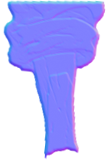
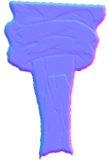
NE-90：阿婆的頸與手腕支點移到零件上，補回沒有零件認領的像素，凜遠側袖子的檢查對回實際相鄰的零件

diff --git a/tools/comfyui/refine_parts.py b/tools/comfyui/refine_parts.py
@@ -8,6 +8,8 @@ Outputs: <work>/07_refined/<part>.png   same size and pixel coordinates as the i
 spec["refine"] (every key is optional):
   far_side   {"parts": [...], "min_area": N, "y_min": Y}        remove the far-side leg / boot that Qwen drew as a flat teal silhouette behind the near leg
   erase      [{"part": p, "poly": [[x, y], ...]}]    clear a polygon (pixel coordinates of base_rgba.png)
+  claim      [{"part": p, "poly": [[x, y], ...]}]    give the part the pixels of base_rgba.png inside the polygon that no part holds: skin
+                                                      between two masks (the front of the neck between the chin and the collar) shows the background
   inpaint    [{"part": p, "poly": [[x, y], ...]}]    repaint a polygon of the part from the colours around it, alpha unchanged: something
                                                       that belongs to another part was painted onto this one (an earring on the neck under the head)
   underlap   [{"part": p, "under": q, "poly": [[x, y], ...], "inset": 2}]  grow part p into the polygon, only where part q covers it (q's
@@ -149,6 +151,16 @@ def main() -> None:
         cv2.fillPoly(m, [np.array(e["poly"], np.int32)], 1)
         layers[e["part"]][:, :, 3][m > 0] = 0
         print(f"  erase {e['part']}: {int(m.sum())} px")
+
+    for e in cfg.get("claim", []):
+        m = np.zeros((H, W), np.uint8)
+        cv2.fillPoly(m, [np.array(e["poly"], np.int32)], 1)
+        owned = np.zeros((H, W), bool)
+        for other in layers.values():
+            owned |= other[:, :, 3] > 127
+        take = (m > 0) & (base[:, :, 3] > 127) & ~owned
+        layers[e["part"]][take] = base[take]
+        print(f"  claim {e['part']}: +{int(take.sum())} px")
 
     for e in cfg.get("inpaint", []):
         m = np.zeros((H, W), np.uint8)

diff --git a/pm/Nest-Egg/attachments/NE-255-lessons.md b/pm/Nest-Egg/attachments/NE-255-lessons.md
@@ -186,3 +186,10 @@
 - **對照用的舊版本開在另一個工作目錄**，不要在正在用的目錄裡換檔案；量完就移除。
 - **裝甲脫落的預覽倍率要依體型調**：高大的敵人用預設倍率會超出畫面，頭被切掉就等於沒看。
 
+## 接點數字很大時先分清楚是哪一種（NE-90，2026-10-11 第二次）
+
+- **支點落在別的衣物上**：接點檢查只畫相鄰的兩個零件。支點如果落在圍裙肩帶、背帶這類第三個零件上，檢查會整段判「中心沒蓋到」。把支點移到兩個零件本身蓋得到的地方（量那一列的遮罩範圍，取中間）。
+- **原圖有、但沒有零件認領的像素**：兩個遮罩之間的皮膚（下巴與衣領之間）誰都沒拿，遊戲裡直接透出背景。精修步驟 `claim` 把多邊形內沒有人認領的原圖像素補給指定零件。頭部有眨眼圖鎖定雜湊的角色，補給軀幹，不要動頭。
+- **零件的掛點移動之後，檢查要畫的相鄰零件也要跟著改**：這是把檢查對回實際的組合方式，不是放寬；判定標準不動，並在票上寫明改了哪一個接點、為什麼。
+- **重建舊角色會順便重切頭像**：支點移動後頭像的取景會跟著移幾個像素，提交前看一眼。
+

diff --git a/.agents/skills/portrait-to-godot/SKILL.md b/.agents/skills/portrait-to-godot/SKILL.md
@@ -105,7 +105,8 @@ python tools/check_joint_frames.py <同一個目錄>
 
 - 兩個連通塊：不同群組的零件只是相接（`refine.underlap`，範圍用支點周圍的小圓），或有游離碎片（`speckle`、`trim_spikes`）
 - 封閉小洞：兩個零件之間的小凹口（`close_fill`）、補全時削掉的輪廓（`edge_trim: 1`、`keep_rim`）
-- 中心沒蓋到：支點落在零件外面
+- 中心沒蓋到：支點落在零件外面，或落在第三個零件（肩帶、背帶）上；移到兩個零件本身蓋得到的地方
+- 原圖有、沒有零件認領的像素（下巴與衣領之間的皮膚）：`refine.claim`
 - 衣領、袖口的開口是衣物本來的形狀：寫明是哪一類，不改門檻
 
 ## 第 7 關：接到遊戲

diff --git a/.claude/skills/portrait-to-godot/SKILL.md b/.claude/skills/portrait-to-godot/SKILL.md
@@ -105,7 +105,8 @@ python tools/check_joint_frames.py <同一個目錄>
 
 - 兩個連通塊：不同群組的零件只是相接（`refine.underlap`，範圍用支點周圍的小圓），或有游離碎片（`speckle`、`trim_spikes`）
 - 封閉小洞：兩個零件之間的小凹口（`close_fill`）、補全時削掉的輪廓（`edge_trim: 1`、`keep_rim`）
-- 中心沒蓋到：支點落在零件外面
+- 中心沒蓋到：支點落在零件外面，或落在第三個零件（肩帶、背帶）上；移到兩個零件本身蓋得到的地方
+- 原圖有、沒有零件認領的像素（下巴與衣領之間的皮膚）：`refine.claim`
 - 衣領、袖口的開口是衣物本來的形狀：寫明是哪一類，不改門檻
 
 ## 第 7 關：接到遊戲
